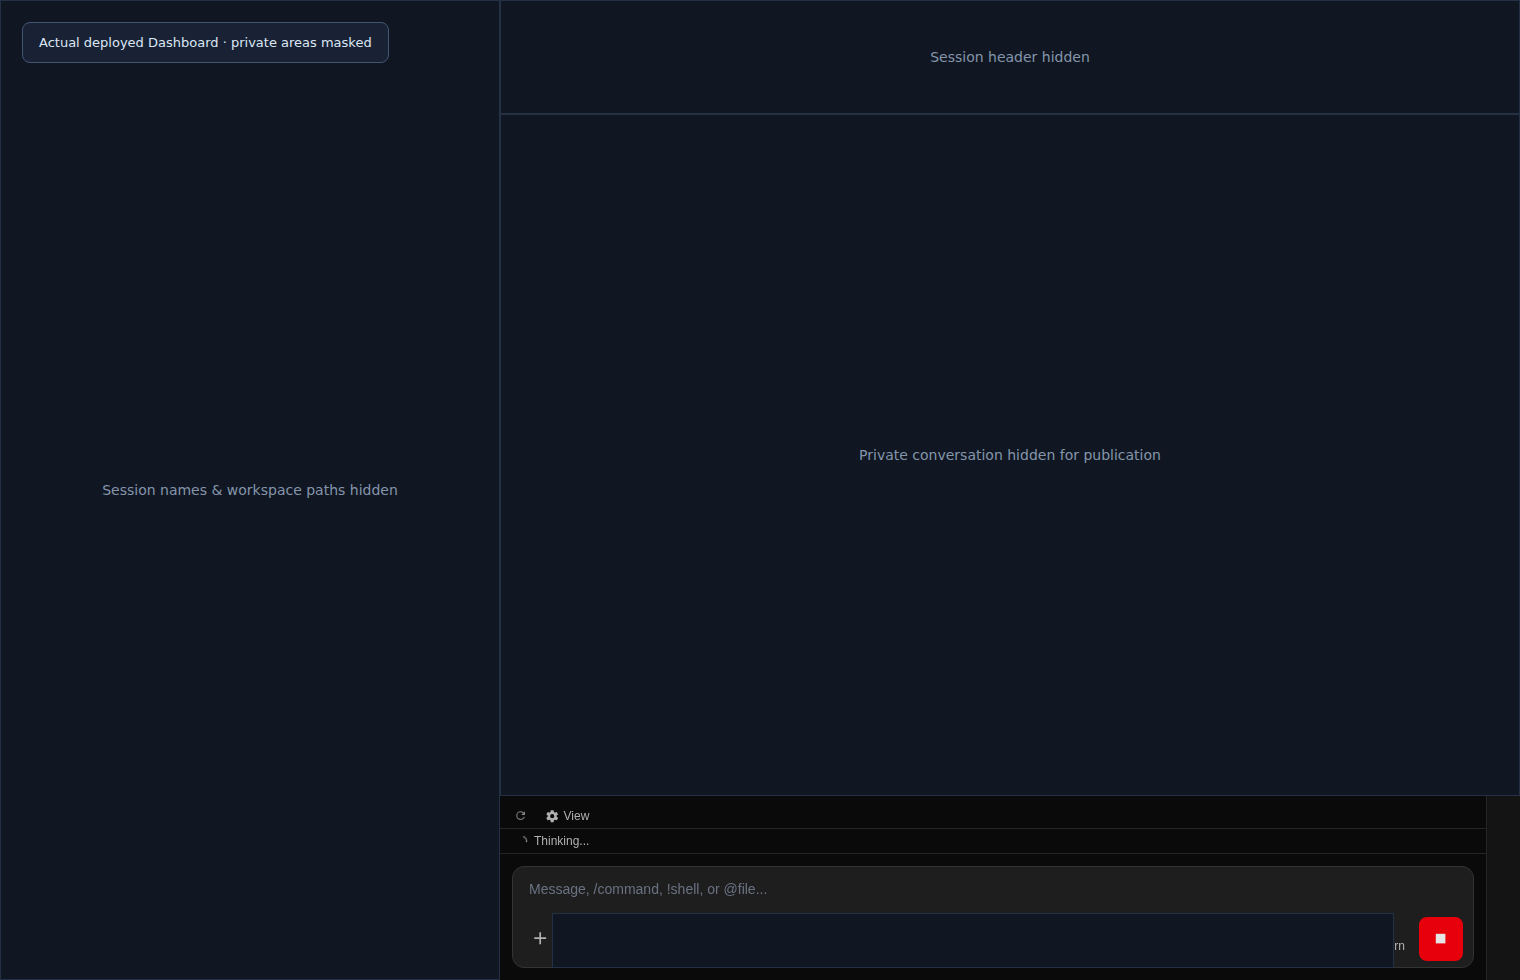
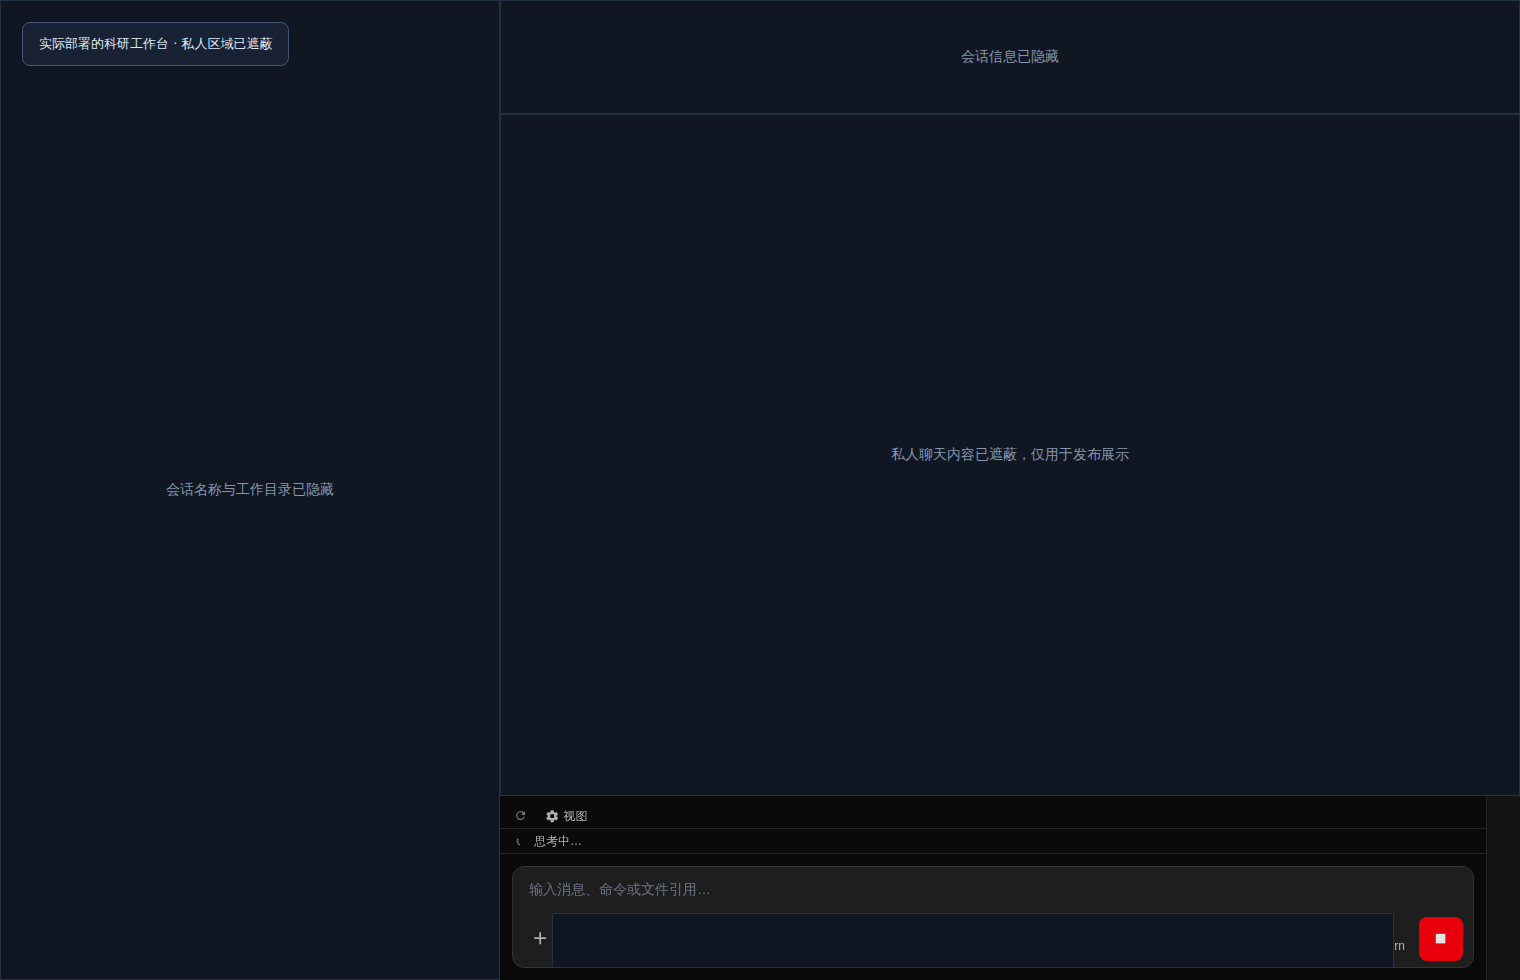
docs: localize README artwork and screenshot captions into Chinese

diff --git a/docs/images/README.md b/docs/images/README.md
@@ -1,17 +1,7 @@
-# Image provenance
+# 图片来源与说明
 
-- `project-illustration.png`: generated conceptual cover using GPT Image 2.5,
-  1792×1024, standard quality. Prompt contained only public project concepts,
-  no private code, papers, session data or credentials. Not a product screenshot.
-- `dashboard-redacted.png`: actual deployed loopback dashboard, captured in a
-  fresh unauthenticated local browser context. Persistent opaque overlays hide
-  the entire sidebar, session header, conversation and model selector, including
-  live updates. Most of the UI is intentionally hidden for privacy. Browser DOM
-  only; no server/session mutation, send or undo action.
-- `undo-edit-redacted.png`: locator-only crop of the actual last-message undo/edit
-  button. The button was disabled during the ongoing turn; no click was made.
-  No surrounding conversation or account information is included. This is an
-  entry-point screenshot, not a demonstration of the edit/resend operation.
+- `project-illustration.png`：GPT Image 2.5 生成的中文概念封面，1792×1024，standard 质量。仅使用通用公开项目概念，不含私人代码、论文、会话或凭据。标题为「Pi 科研工作台」，各模块使用中文说明。图中明确标注「概念插画，非实际界面」。
+- `dashboard-redacted.png`：本机实际部署的 dashboard，使用新的无登录浏览器上下文采集。持续不透明遮罩覆盖侧栏、会话头部、聊天内容与模型选择，包括实时更新。遮罩说明及输入区的公开静态标签在截图 DOM 中转为中文；并非修改产品本身。为保护隐私，大部分界面刻意隐藏。没有发送消息、执行撤回或修改服务器/会话。
+- `undo-edit-redacted.png`：真实「撤销并编辑」按钮的局部截图。采集时模型正在运行，按钮呈禁用态；没有点击。图片不含周围聊天或账号信息，只展示入口，不作为编辑重发的完整操作演示。
 
-Screenshots are dated 2026-10-12. Capture files are visually reviewed before
-publication. No raw private conversation screenshot is included.
+图片日期：2026-10-12。上传前均目视检查；不包含未经脱敏的私人会话截图。中文更新只涉及图片与文档，不改变运行环境。

diff --git a/README.md b/README.md
@@ -4,7 +4,7 @@
 
 ![项目概念插画](docs/images/project-illustration.png)
 
-*上图由 GPT Image 生成，是概念插画，不是产品截图或科研结果。*
+*中文封面由 GPT Image 生成，是概念插画，不是产品截图或科研结果。*
 
 [![Offline contracts](https://github.com/northkd/pi-research-harness/actions/workflows/ci.yml/badge.svg)](https://github.com/northkd/pi-research-harness/actions/workflows/ci.yml)
 ![License](https://img.shields.io/badge/License-Apache--2.0-blue)
@@ -27,7 +27,7 @@
 
 ![实际dashboard，私人内容已脱敏](docs/images/dashboard-redacted.png)
 
-*来自本机真实运行的 dashboard。为保护隐私，侧栏、会话头部、聊天区域和模型选择被不透明遮罩完整遮住，因此这里只展示布局与输入区，不是完整功能演示。*
+*来自本机真实运行的 dashboard，截图遮罩说明与公开静态标签已中文化。为保护隐私，侧栏、会话头部、聊天区域和模型选择被不透明遮罩完整遮住，因此这里只展示布局与输入区，不是完整功能演示；没有修改实际产品或会话。*
 
 ### 发错消息：撤销并编辑
 

diff --git a/CHANGELOG.md b/CHANGELOG.md
@@ -1,5 +1,11 @@
 # Changelog
 
+## README 中文图片更新 — 2026-10-12
+
+- 概念封面替换为中文标题与模块说明，明确标注非实际界面。
+- 实际 dashboard 截图的隐私遮罩与公开静态说明中文化。
+- 仅更新图片和文档；`v0.1.0` 标签保留原始代码快照，不重写已发布历史。
+
 ## 0.1.0 — 2026-10-12
 
 - Preserve a sanitized, source-based snapshot of the usable Pi research environment.
